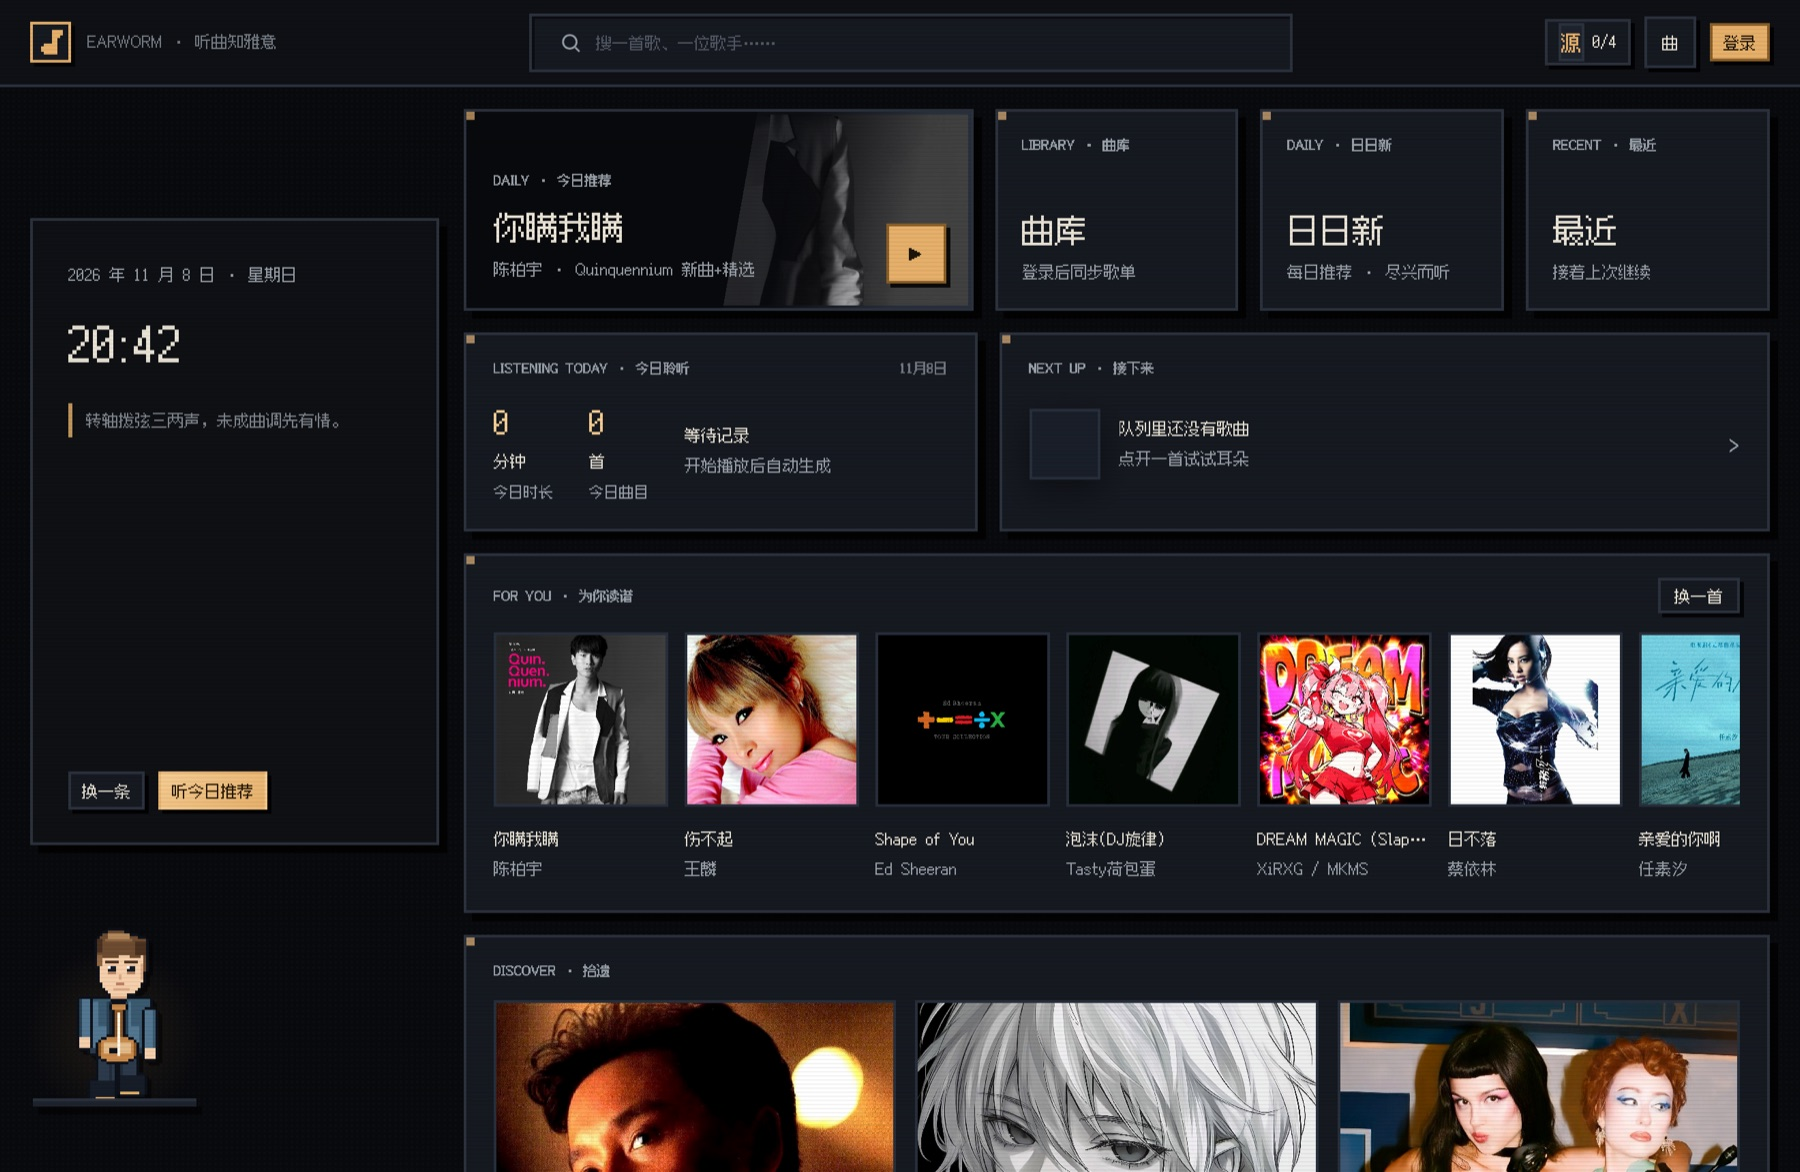
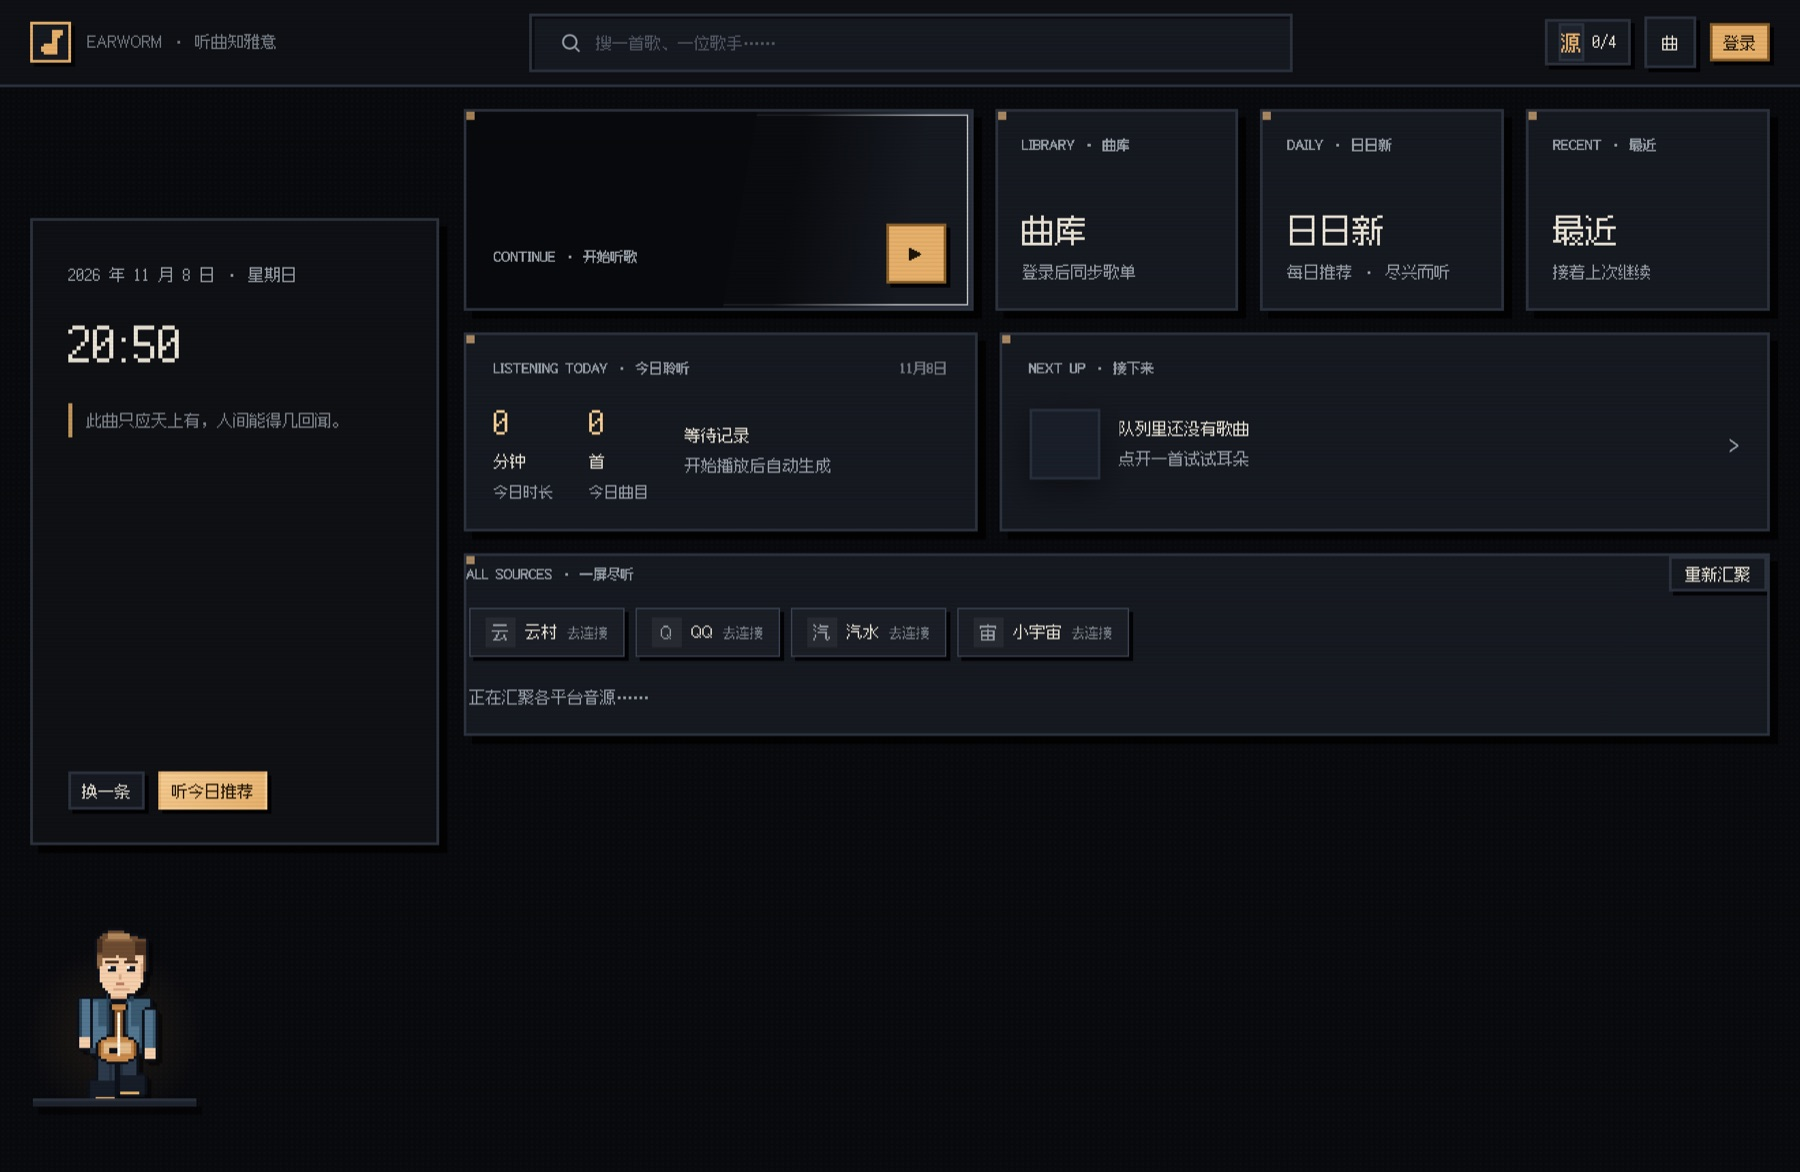
style: 乐手头部收边——偏分刘海垂一缕、鬓角收窄、立领
- 鬓角改成末端收窄的两段，不再是齐平的一刀切
- 刘海往右多压一格碎发，偏分更明显
- 领子立起来一点，肩颈交界不再是一道平线
- 去掉下眼睑那条暗线（小尺寸下像眼袋）
- 同步更新 docs/screenshot-home.jpg

diff --git a/app/web/muse.js b/app/web/muse.js
@@ -56,8 +56,10 @@
     [C.h, 27, 7, 10, 1],
     [C.h, 26, 8, 14, 1],
     [C.h, 25, 9, 18, 6],       // 头顶 y9..14
-    [C.h, 25, 14, 2, 5],       // 左鬓（到耳下就收），右边长一档
-    [C.h, 41, 14, 2, 7],
+    [C.h, 25, 14, 2, 3],       // 左鬓：往下收成一格
+    [C.h, 25, 17, 1, 3],
+    [C.h, 41, 14, 2, 4],       // 右鬓长一点，末端收窄
+    [C.h, 42, 18, 1, 3],
 
     // 脸：上宽下窄
     [C.s, 26, 15, 16, 10],     // y15..24
@@ -69,8 +71,9 @@
 
     // 刘海：右边薄一点，露出额头
     [C.h, 26, 14, 16, 1],      // 发际线
-    [C.h, 27, 15, 6, 1],
-    [C.h, 37, 15, 4, 1],
+    [C.h, 27, 15, 5, 1],
+    [C.h, 33, 15, 6, 1],
+    [C.h, 36, 16, 3, 1],       // 一撮垂到右眉上，偏分才明显
 
     // 头发的层次
     [C.h4, 29, 7, 8, 2],       // 顶部高光（挑染）
@@ -83,7 +86,6 @@
     [C.h2, 28, 17, 5, 1], [C.h2, 35, 17, 5, 1],   // 眉
     [C.e, 29, 19, 3, 2], [C.e, 36, 19, 3, 2],      // 眼（压扁一点，眼神才利）
     [C.l, 29, 19, 1, 1], [C.l, 36, 19, 1, 1],      // 眼里的光
-    [C.s3, 29, 21, 3, 1], [C.s3, 36, 21, 3, 1],    // 下眼睑
     [C.s2, 33, 22, 1, 2],                           // 鼻
     [C.m, 32, 25, 3, 1],                            // 嘴
     [C.s2, 31, 27, 6, 1],                           // 下巴的影
@@ -93,6 +95,8 @@
   const TORSO = [
     [C.c, 21, 31, 24, 18],     // 外套 x21..44 y31..48
     [C.c2, 21, 31, 24, 1],     // 肩线
+    [C.c3, 29, 28, 2, 4],      // 立起来的领子
+    [C.c3, 37, 28, 2, 4],
     [C.c3, 21, 32, 1, 17],     // 左边缘
     [C.c2, 41, 32, 4, 17],     // 右侧受光暗
     [C.t, 30, 32, 6, 16],      // 敞开的内搭 x30..35

diff --git a/.workbuddy/memory/2026-11-08.md b/.workbuddy/memory/2026-11-08.md
@@ -22,3 +22,12 @@
   `npx electron-builder --mac dir -c.electronDist=node_modules/electron/dist`。
 - 本沙箱 grep CLI 对部分文件返回空（疑似 locale），改用 Grep 工具。
 - Electron 窗口被遮挡时 CDP 截图会拿到过期帧（开机动画帧全黑），验证动画用 headless Chrome 同尺寸截。
+
+## 20:45 角落乐手：精灵升级到 64×80（帅气人物版）
+- 用户连续否决三版（动物 → 可爱人物 → 要帅气），判定 32×40（4px/格）分辨率不够画五官
+- 精灵重做成 64×80 栅格、每格 2px，viewBox "0 0 64 80"，显示仍 128×160
+- 造型：偏分刘海带挑染、细眉 + 3×2 细眼 + 单像素高光、窄下颌；深蓝外套 #537791 + 深色内搭 #1b2430 + 琥珀吊坠
+- 三件乐器重画：梨形琵琶（行宽递减）、葫芦形小提琴 + 竖弓、斜挎键盘（白键 + 黑键）
+- CSS 位移全部从 `* 1px` 改成 `* 2px`（跟着新格宽走），跳舞幅度不变
+- 脚底落在 y=68 格 = 136px，正好踩在 CSS 台子（bottom:20px）上沿
+- 打包校验：app.asar 内含 "0 0 64 80"，进程 94026 已用新版；提交 e8e4924
